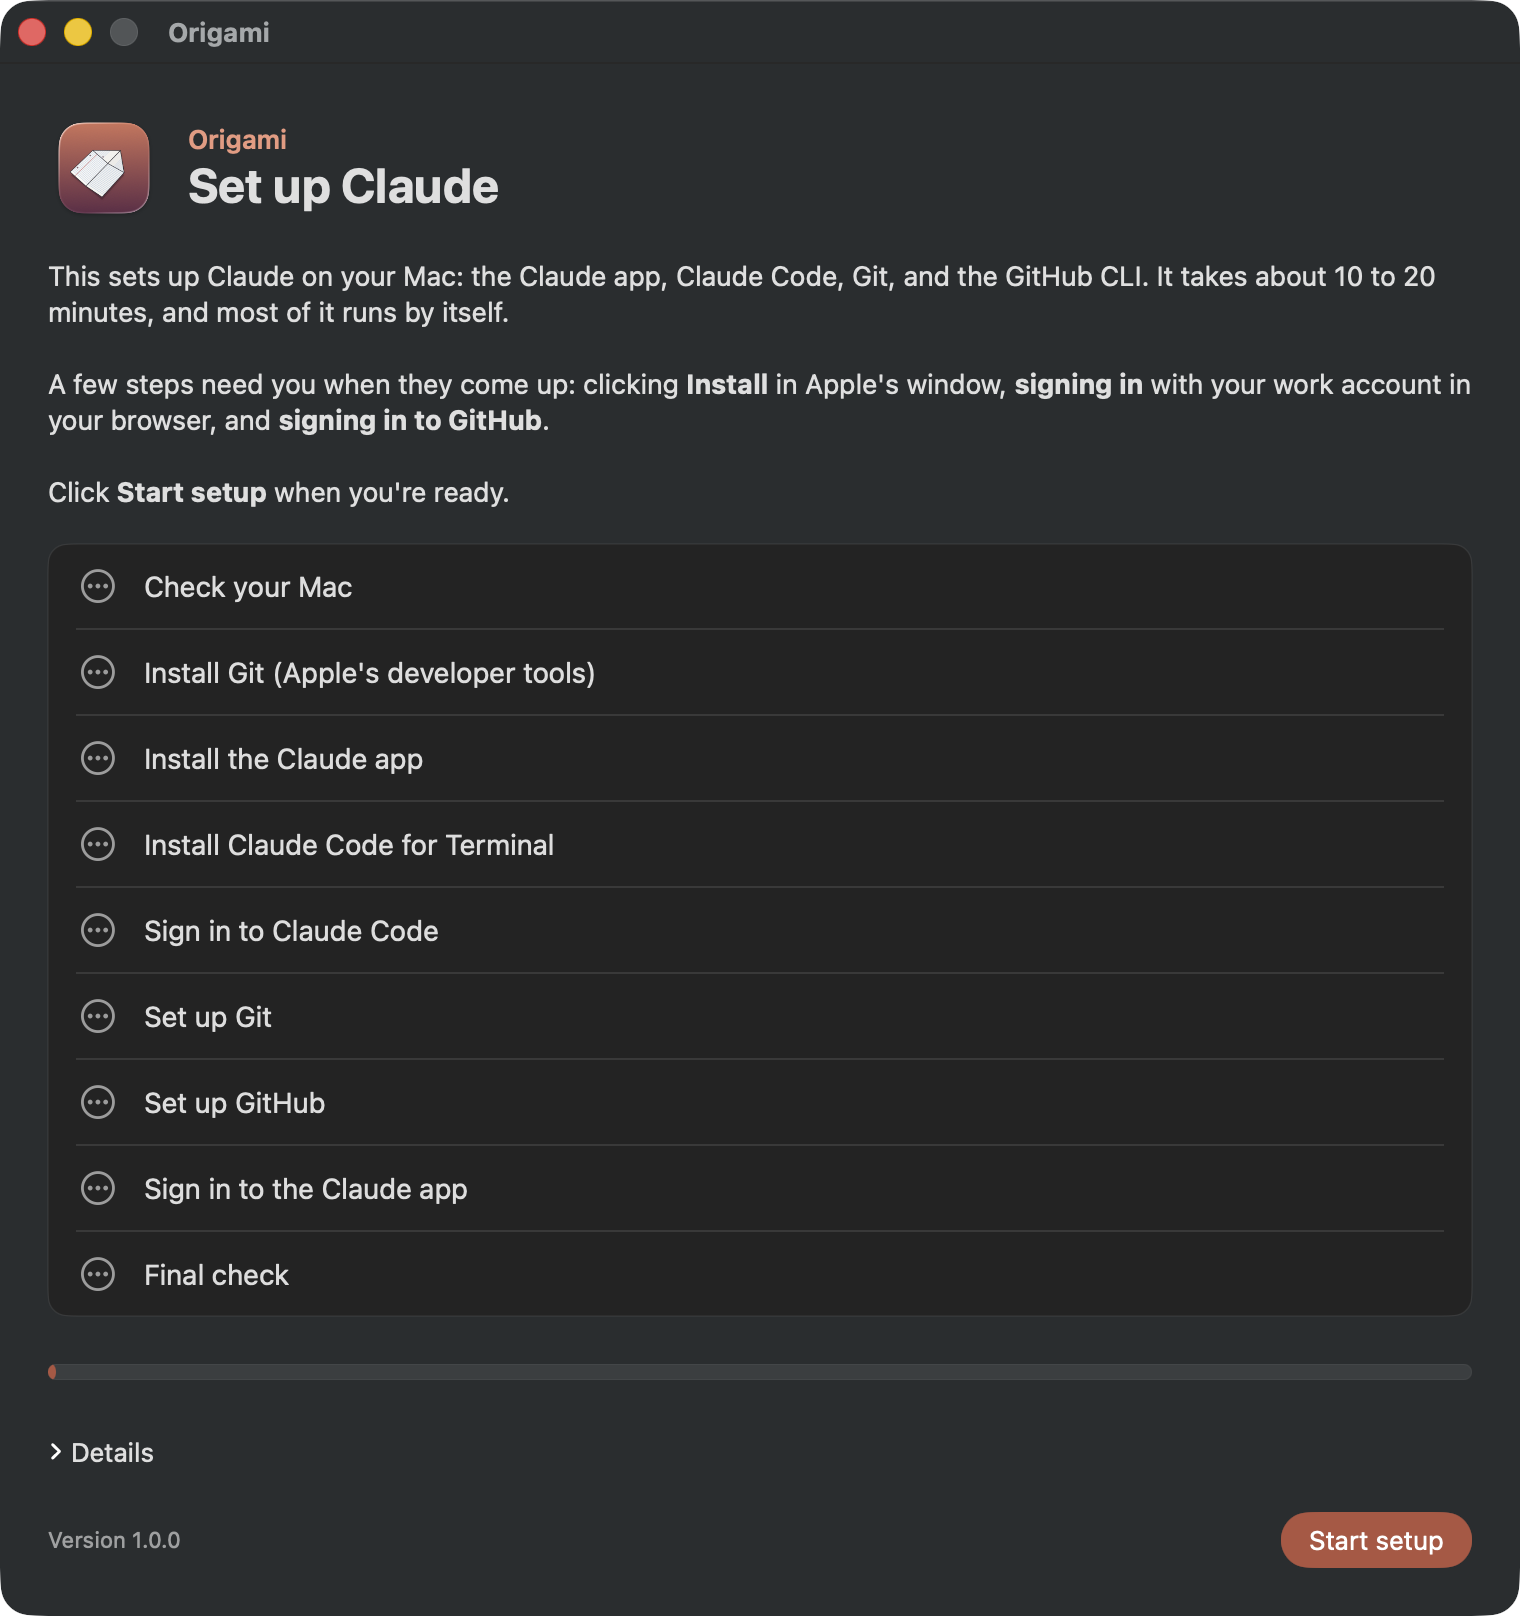
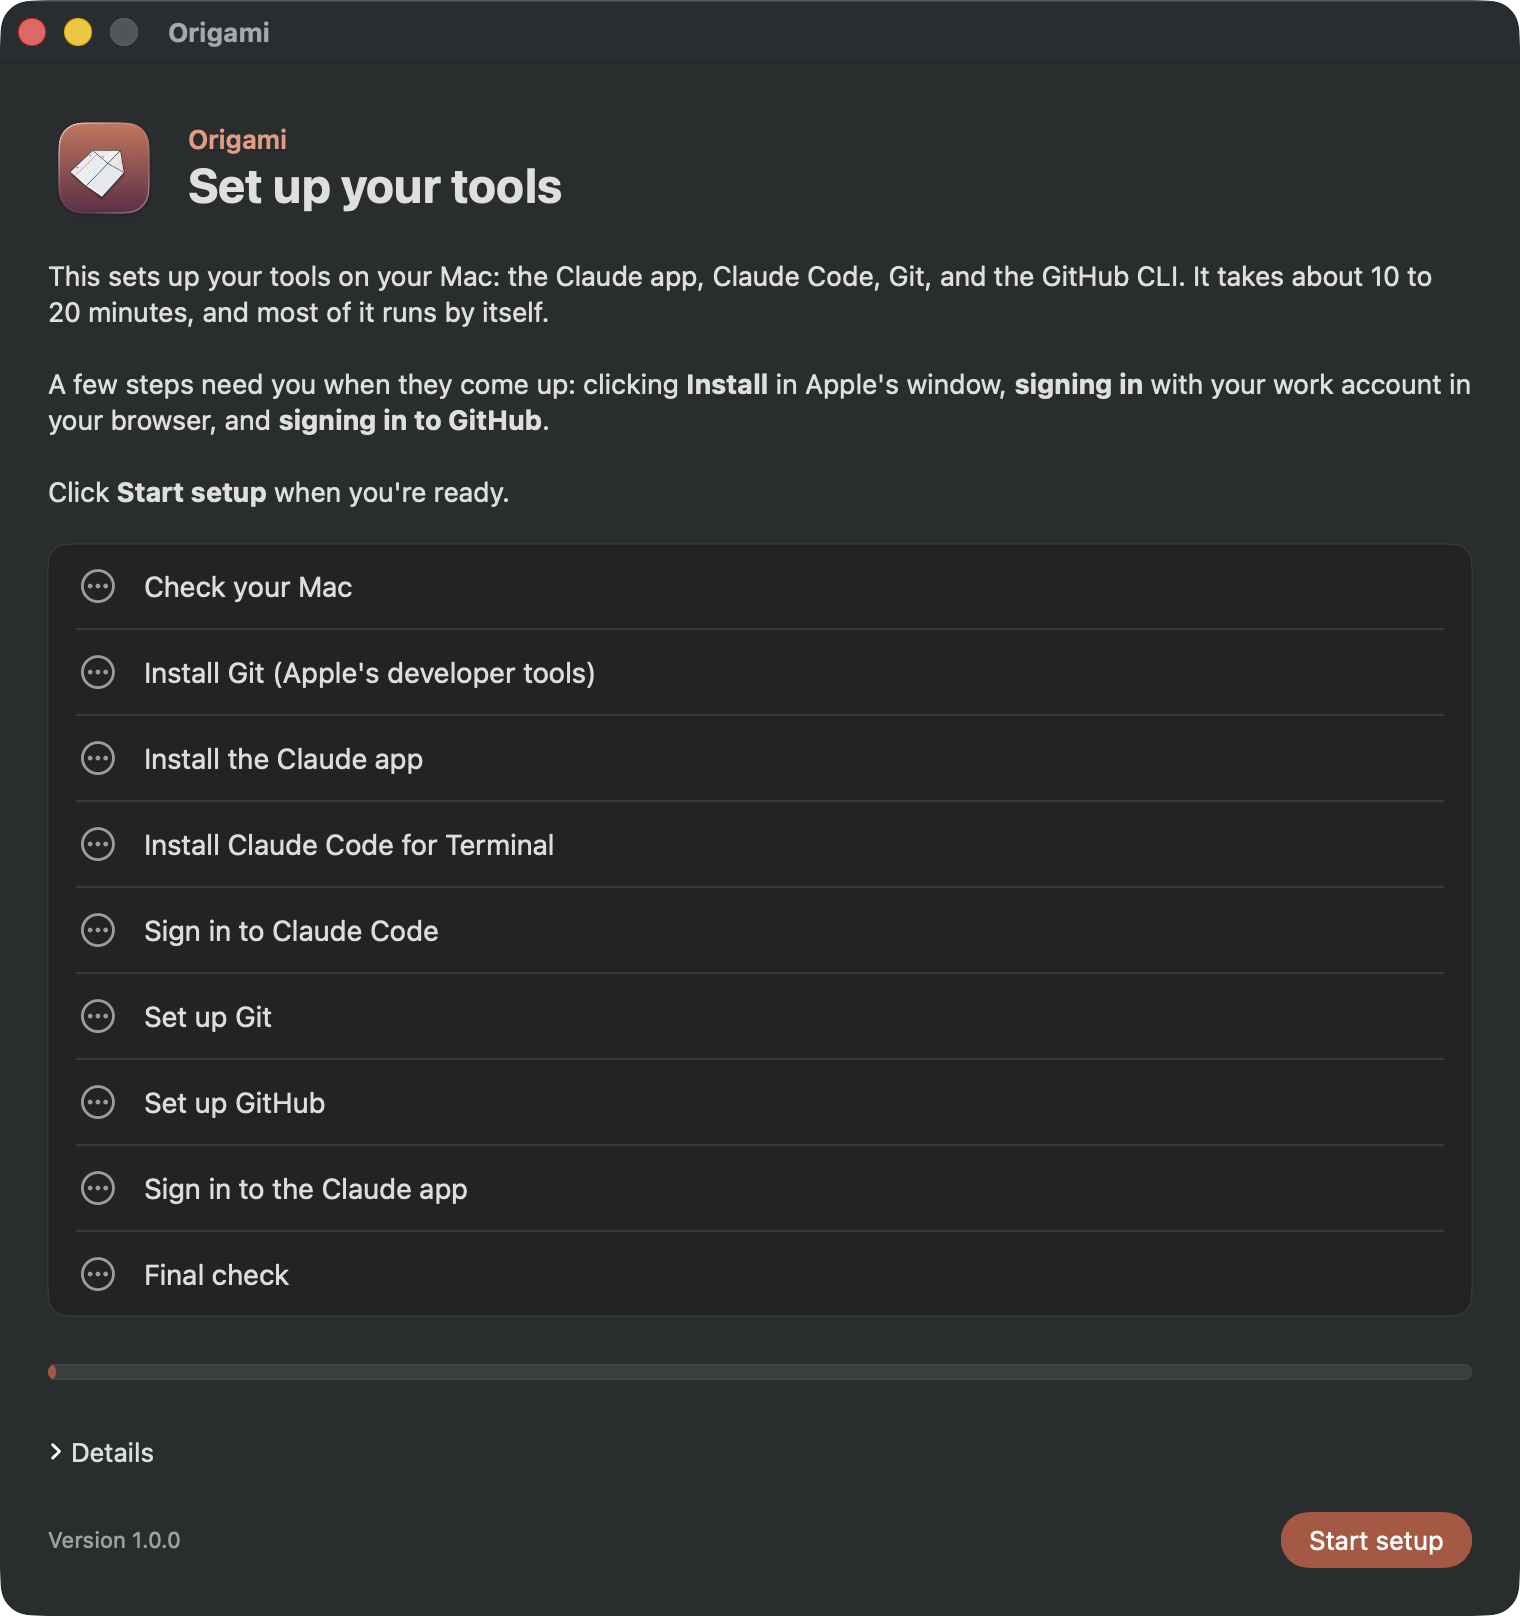
Origami: "Your journey unfolds", and it sets up your tools, not only Claude
The opening's tagline is "Your journey unfolds". The window, the Terminal
version's window and its messages say "Set up your tools" and "Your tools
are ready", since setup also installs Git and the GitHub CLI. The shell
markers (# >>> Claude setup >>>) keep their names so earlier runs are
still recognised.

test-app.sh now closes the old copy when an update is refused, so no test
copy stays open afterwards.

Changed region(s): [[0.0309, 0.1547, 0.9586, 0.2166], [0.2164, 0.0928, 0.3711, 0.1238]]

diff --git a/app/Origami.swift b/app/Origami.swift
@@ -39,7 +39,7 @@ final class SetupRunner: ObservableObject {
     static let shared = SetupRunner()
 
     static let welcome = """
-    This sets up Claude on your Mac: the Claude app, Claude Code, Git, and the GitHub CLI. It takes about 10 to 20 minutes, and most of it runs by itself.
+    This sets up your tools on your Mac: the Claude app, Claude Code, Git, and the GitHub CLI. It takes about 10 to 20 minutes, and most of it runs by itself.
 
     A few steps need you when they come up: clicking **Install** in Apple's window, **signing in** with your work account in your browser, and **signing in to GitHub**.
 
@@ -59,7 +59,7 @@ final class SetupRunner: ObservableObject {
         "Final check",
     ]
 
-    @Published var heading = "Set up Claude"
+    @Published var heading = "Set up your tools"
     @Published var message = SetupRunner.welcome
     @Published var steps: [Step] = SetupRunner.makeSteps(SetupRunner.initialTitles)
     @Published var details = ""
@@ -110,7 +110,7 @@ final class SetupRunner: ObservableObject {
         }
 
         steps = Self.makeSteps(Self.initialTitles)
-        heading = "Set up Claude"
+        heading = "Set up your tools"
         details = ""
 
         let process = Process()
@@ -532,7 +532,7 @@ struct FoldView: View {
 // under it, and the window shows through. A click skips it.
 struct Splash: View {
     let onDone: () -> Void
-    static let tagline = "Claude set up, one fold at a time"
+    static let tagline = "Your journey unfolds"
     // When the window first shows it, not when it was made: the first launch
     // can take a second or two to put the window on screen.
     @State private var start: Date?

diff --git a/README.md b/README.md
@@ -2,9 +2,9 @@
 
 <img src="screenshots/icon.png" width="128" alt="Origami's icon: a page of notebook paper folded into the start of a paper airplane, on a coral sky">
 
-*Claude set up, one fold at a time.*
+*Your journey unfolds.*
 
-Origami (formerly Set Up Claude) sets up a Mac for Claude: the Claude app, Claude Code (the `claude` command in Terminal), Apple's developer tools, which include Git, and the GitHub CLI (`gh`). Every step shows in one window. If something fails, it opens Claude with a message describing what happened, so the person can troubleshoot with Claude's help.
+Origami (formerly Set Up Claude) sets up your tools on a Mac: the Claude app, Claude Code (the `claude` command in Terminal), Apple's developer tools, which include Git, and the GitHub CLI (`gh`). Every step shows in one window. If something fails, it opens Claude with a message describing what happened, so the person can troubleshoot with Claude's help.
 
 It's built for Northeastern University's Claude Enterprise accounts. The organization and plan it checks for are settings, so other teams can change them.
 
@@ -18,7 +18,7 @@ It runs as the person themselves. Nothing needs IT, Jamf, or an admin password. 
 
 The download link above always gives the newest version. A message you can send:
 
-> To set up Claude on your Mac:
+> To set up your tools on your Mac:
 > 1. Download Origami: https://github.com/Excaliburke/set-up-claude/releases/latest/download/Origami.zip
 > 2. Double-click the zip to unzip it, then open **Origami**. macOS asks if you're sure you want to open it; click **Open**.
 > 3. Click **Start setup** and follow the window.
@@ -51,7 +51,7 @@ Each step shows gray dots while it waits its turn, a spinner while it runs, a ha
 
 **Details** shows the setup's own output, like a Terminal window would. While setup runs, the window can't be closed by accident, and quitting asks first.
 
-At the end the window says **Claude is ready**, with anything left to do, or **Setup didn't finish**, with **Get help from Claude**:
+At the end the window says **Your tools are ready**, with anything left to do, or **Setup didn't finish**, with **Get help from Claude**:
 
 ![The app after a failed step](screenshots/app-didnt-finish.png)
 
